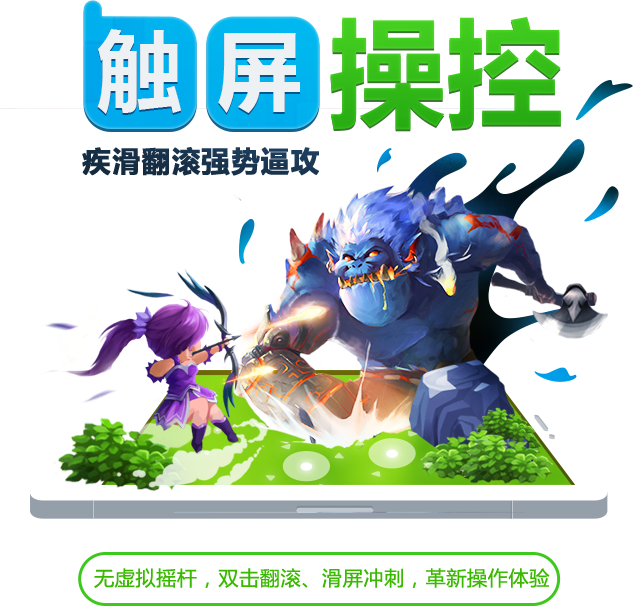
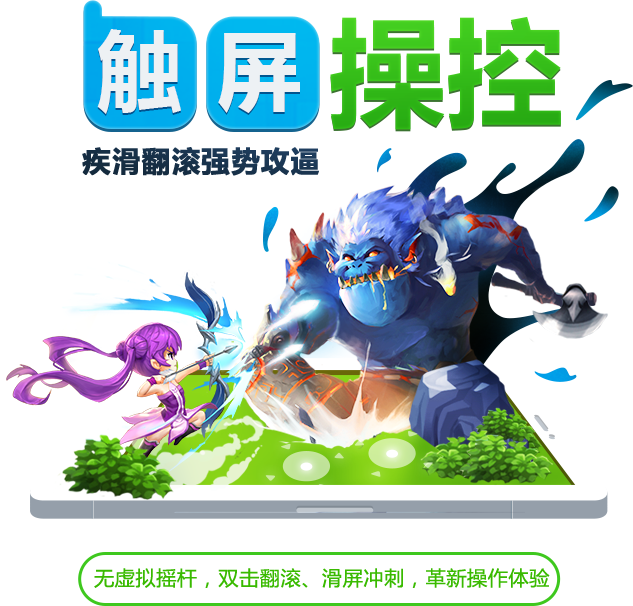
2
2

Changed region(s): [[0.0, 0.4158, 0.6003, 0.8317], [0.3902, 0.2376, 0.5103, 0.297], [0.3602, 0.3267, 0.4502, 0.4455]]

diff --git a/wy/css/index.css b/wy/css/index.css
@@ -9,13 +9,13 @@ body{height:100%;}
 #fullPage{ width:640px; height:100%; position:relative; z-index:2;}
 .section{ width:640px; }
 .main{ position:fixed;width:640px;height:100%;top:0; background:url('../images/bg.jpg') no-repeat; z-index:1;}
-.title{ position:fixed; width:640px; height:82px; background:url(../images/title.jpg) no-repeat; top:0; left:0; z-index:10;}
+.title{ position:absolute; width:640px; height:82px; background:url(../images/title.jpg) no-repeat; top:0; left:0; z-index:10;}
 .bti{ position:fixed; width:640px; height:110px; background:url(../images/yybg.jpg) no-repeat; bottom:0; left:0; z-index:10;}
 .opeo{ position:absolute; width:612px; height:581px; background:url(../images/main.png) no-repeat; top:50%; margin-top:-330px; left:28px;}
-.md1{ position:absolute; width:586px; height:621px; background:url(../images/md1.png) no-repeat; top:50%; margin-top:-350px; left:30px;}
-.md2{ position:absolute; width:607px; height:603px; background:url(../images/md2.png) no-repeat; top:50%; margin-top:-341px; left:30px;}
-.md3{ position:absolute; width:581px; height:608px; background:url(../images/md3.png) no-repeat; top:50%; margin-top:-344px; left:30px;}
-.md4{ position:absolute; width:633px; height:606px; background:url(../images/md4.png) no-repeat; top:50%; margin-top:-343px; }
+.md1{ position:absolute; width:586px; height:621px; background:url(../images/md1.png) no-repeat; top:20px; left:30px;}
+.md2{ position:absolute; width:607px; height:603px; background:url(../images/md2.png) no-repeat; top:20px; left:30px;}
+.md3{ position:absolute; width:581px; height:608px; background:url(../images/md3.png) no-repeat; top:20px; left:30px;}
+.md4{ position:absolute; width:633px; height:606px; background:url(../images/md4.png) no-repeat; top:20px; }
 .yy{ position:absolute; right:12px; top:20px;}
 .yz{ position:absolute; right:12px; top:20px; display:none;}
 .text{ width:248px; height:32px; padding:20px; padding-right:0; background:url(../images/input.png); font-size:24px; color:#3c4f6c; border:none;}

diff --git a/wy/index.html b/wy/index.html
@@ -22,9 +22,10 @@
 <link type="text/css" rel="stylesheet" href="css/index.css" media="all" />
 </head>
 <body>
-<div class="title"><div class="sbtn"></div></div>
+
 <div id="fullPage">
   <div class="section active">
+  <div class="title"><div class="sbtn"></div></div>
     <div class="opeo"></div>
   </div>
   <div class="section">
